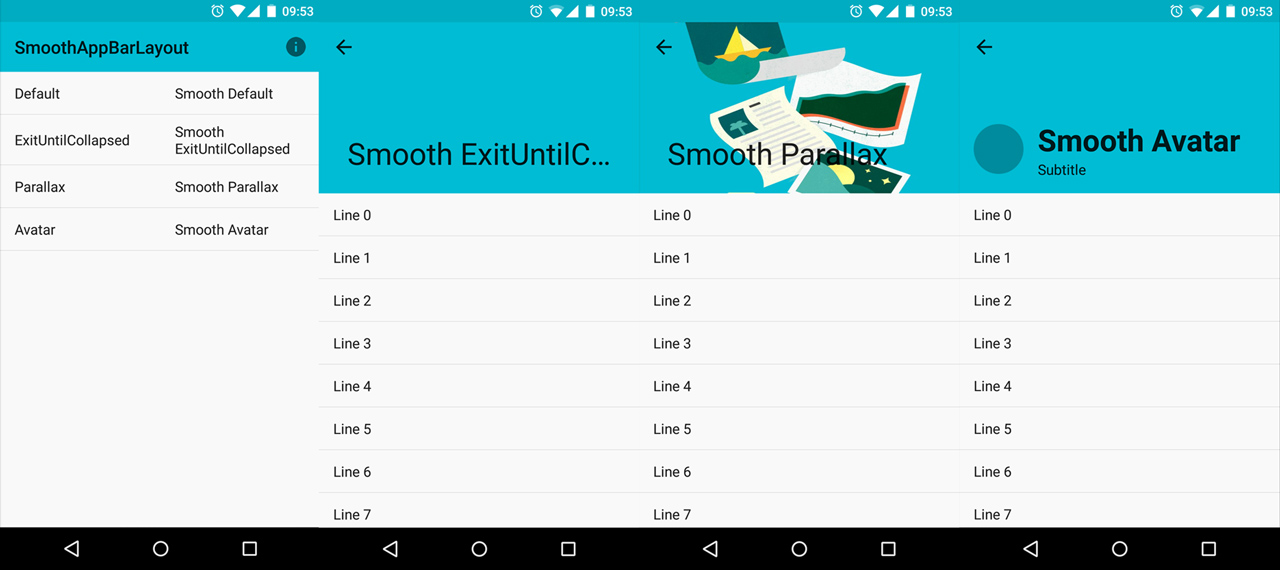
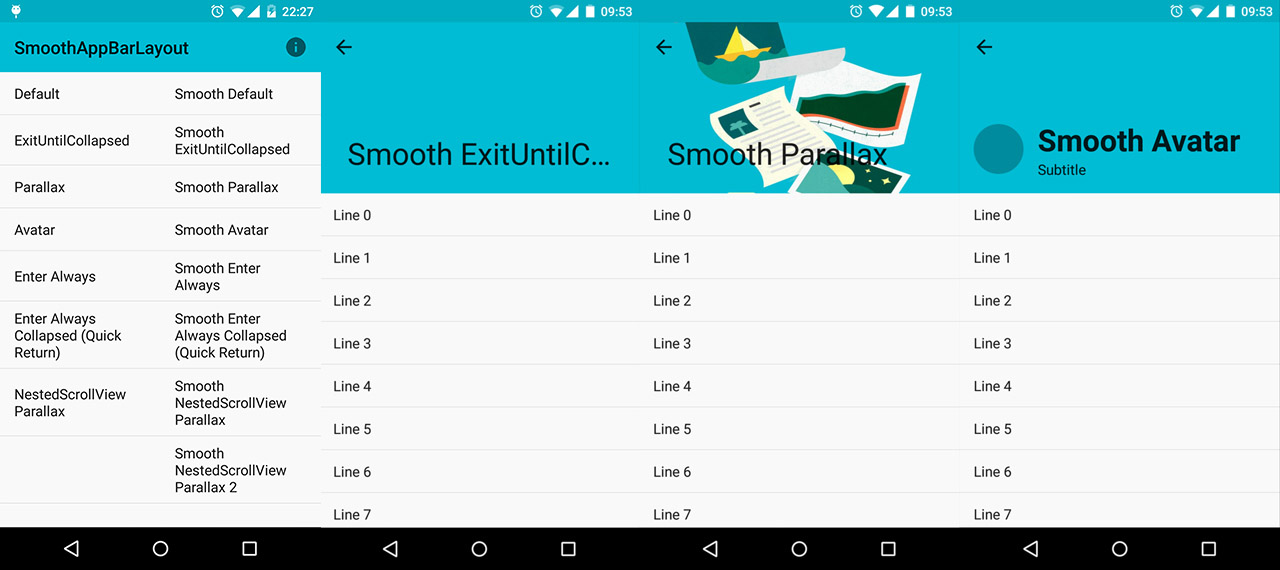
Bump to v0.1.3

diff --git a/CHANGES.md b/CHANGES.md
@@ -1,16 +1,21 @@
 # smooth-app-bar-layout releases #
 
+### Version 1.0.3 - October 2nd 2015 ###
+
+* Added: QuickReturn examples
+
+
 ### Version 1.0.2 - October 1st 2015 ###
 
-* Fix: Flinging creates a blank space - take 2
-* Add: EnterAlways animation
-* Add: Parallax animation with contentScrim
-* Add: NestedScrollView examples
+* Fixed: Flinging creates a blank space - take 2
+* Added: EnterAlways animation
+* Added: Parallax animation with contentScrim
+* Added: NestedScrollView examples
 
 
 ### Version 1.0.1 - September 30th 2015 ####
 
-* Fix: Flinging creates a blank space [#4](https://github.com/henrytao-me/smooth-app-bar-layout/issues/4)
+* Fixed: Flinging creates a blank space [#4](https://github.com/henrytao-me/smooth-app-bar-layout/issues/4)
 
 
 ### Version 0.1.0 – September 27th 2015 ###

diff --git a/README.md b/README.md
@@ -42,7 +42,7 @@ Please note that the app on the Play store is not always the latest version.
 
 - Default scrolling
 - ExitUntilCollapsed
-- Quick return (coming soon)
+- Quick return
 
 If you want to add header to RecyclerView, checkout this RecyclerView WrapperAdapter [recyclerview-multistate-section-endless-adapter](https://github.com/henrytao-me/recyclerview-multistate-section-endless-adapter)
 
